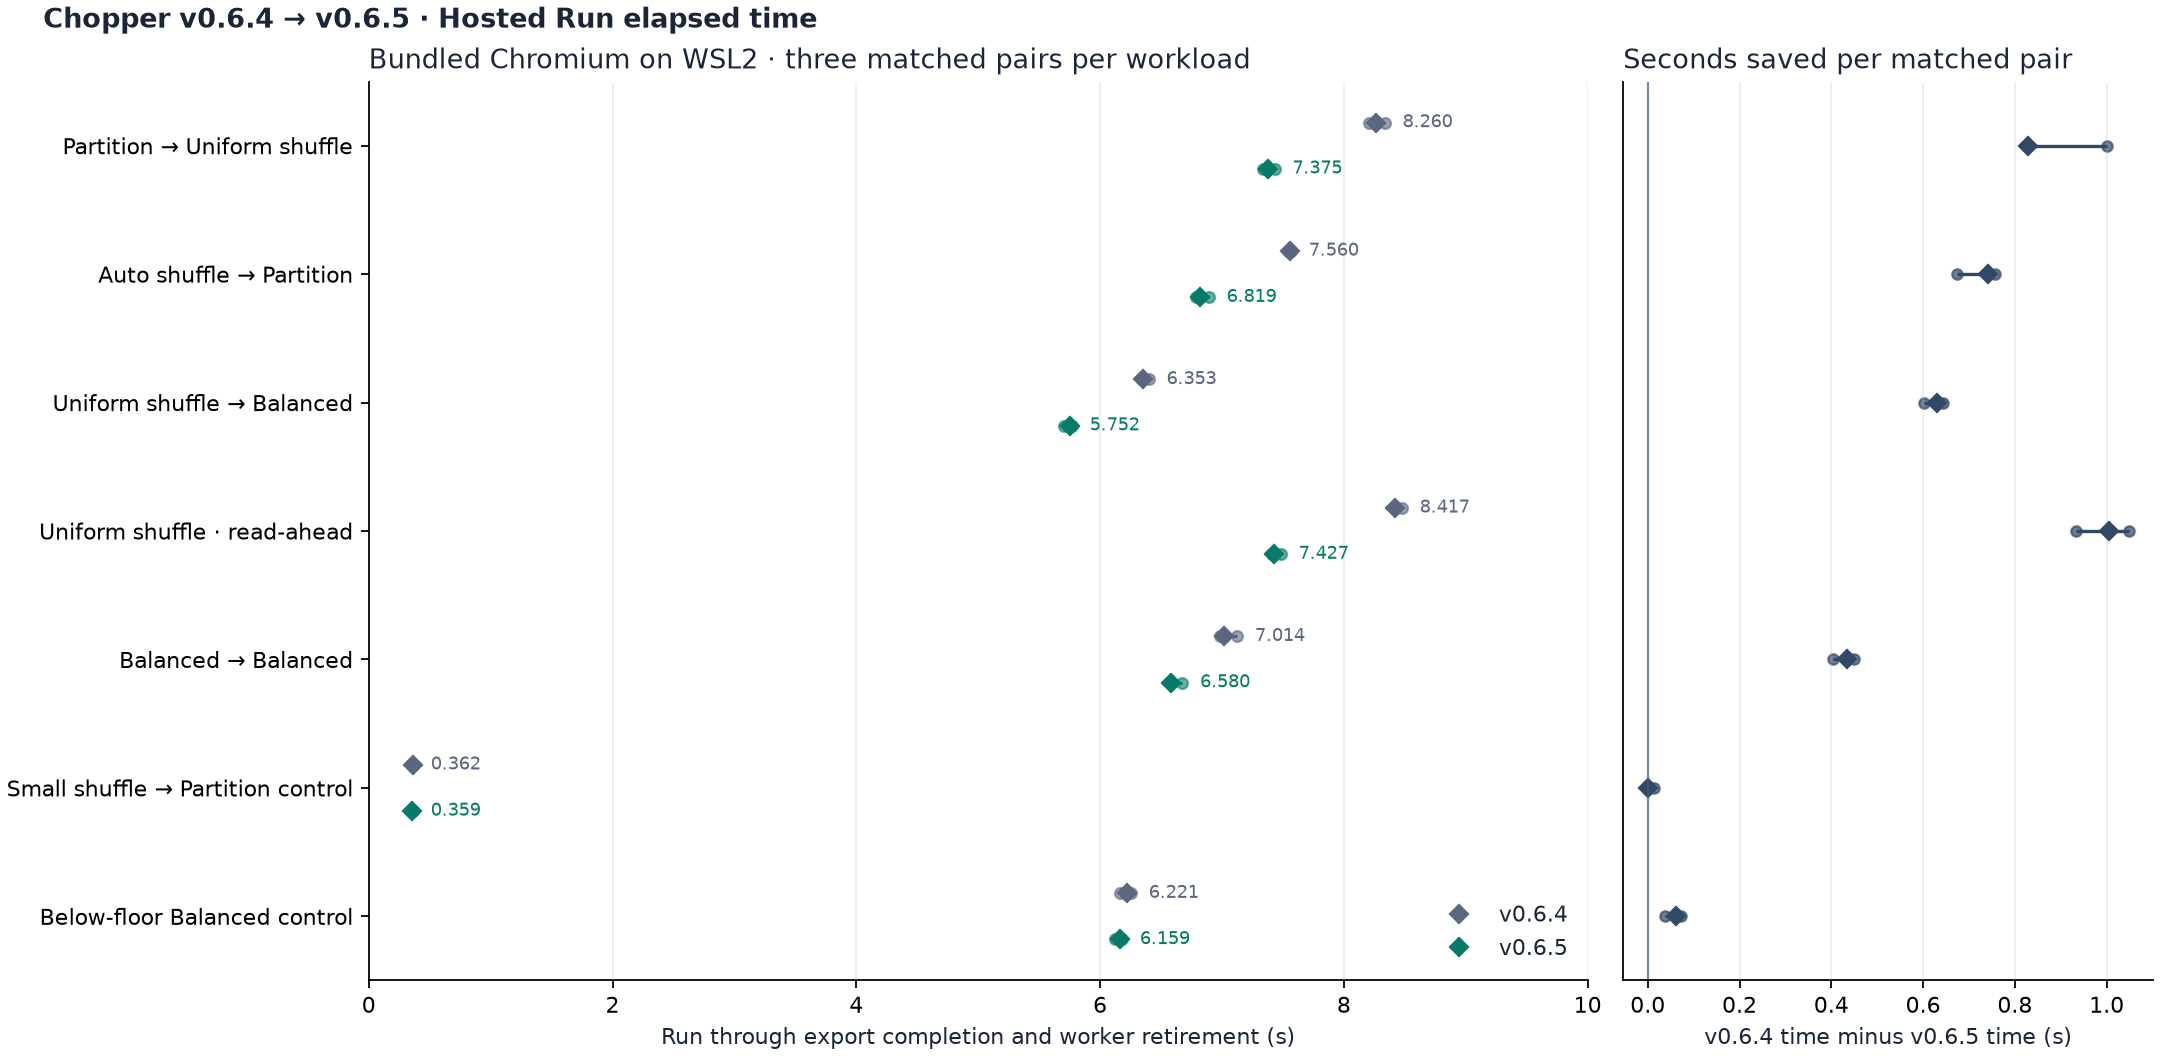
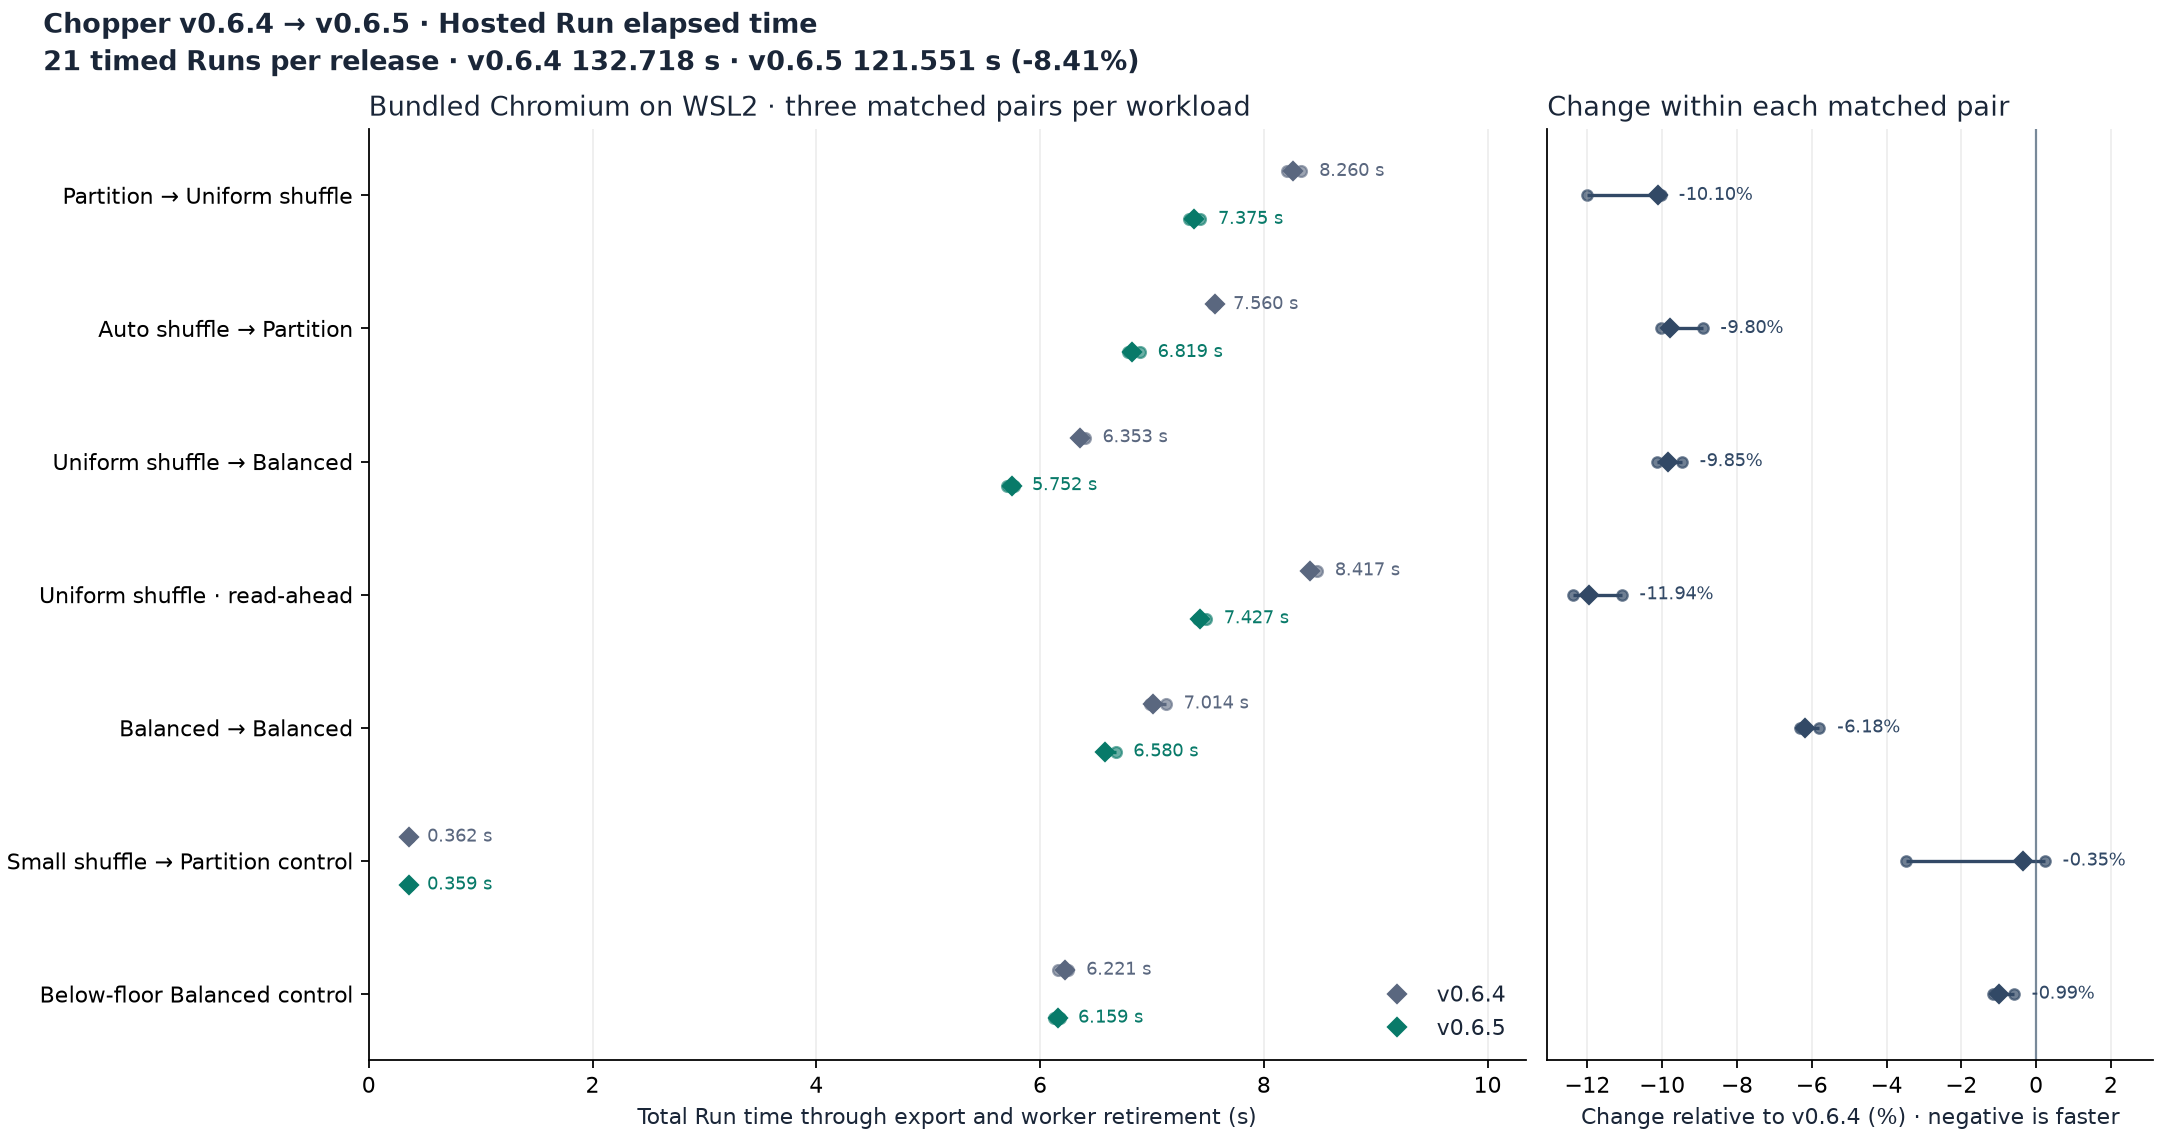
Show elapsed totals and percent changes in performance release charts

diff --git a/docs/releases/0.6.5.md b/docs/releases/0.6.5.md
@@ -7,7 +7,7 @@ consecutive Balanced operations.
 
 ## Performance compared with v0.6.4
 
-![Individual elapsed times, medians and differences for matched v0.6.4 and v0.6.5 hosted Runs across seven workloads](0.6.5-performance-elapsed.png)
+![Total and individual elapsed times for v0.6.4 and v0.6.5, with medians and paired percentage changes across seven workloads](0.6.5-performance-elapsed.png)
 
 ![Median temporary reads, writes, peak storage and working reservations for both versions](0.6.5-performance-resources.png)
 
@@ -16,18 +16,22 @@ the v0.6.5 hosted assets. Each workload ran with one worker in a persistent
 bundled Chromium profile on WSL2, with three alternating pairs after warmup.
 The timer runs from the Run request through export and worker retirement.
 Every exported row and the completion marker were checked after timing.
-Circles show individual observations and diamonds show medians.
+Circles show individual observations and diamonds show medians. Percentage
+changes use v0.6.4 as the baseline. Negative values indicate faster Runs.
 [Samples, fixture settings and hashes](../benchmarks/0.6.5-performance-data.json).
 
-| Hosted workload | Input | Median Run, v0.6.4 → v0.6.5 | Seconds saved per pair |
-| --- | ---: | ---: | ---: |
-| Partition → Uniform shuffle | 292.1 MB | 8.260 → 7.375 s | +0.828 to +1.001 |
-| Auto shuffle → Partition | 267.4 MB | 7.560 → 6.819 s | +0.675 to +0.757 |
-| Uniform shuffle → Balanced | 234.2 MB | 6.353 → 5.752 s | +0.602 to +0.644 |
-| Uniform shuffle · read-ahead | 308.4 MB | 8.417 → 7.427 s | +0.933 to +1.049 |
-| Balanced → Balanced | 275.0 MB | 7.014 → 6.580 s | +0.405 to +0.450 |
-| Small shuffle → Partition control | 8.5 MB | 0.362 → 0.359 s | -0.001 to +0.013 |
-| Below-floor Balanced control | 241.2 MB | 6.221 → 6.159 s | +0.037 to +0.073 |
+Across the 21 timed Runs per release, total elapsed time was 132.718 s for
+v0.6.4 and 121.551 s for v0.6.5 (-8.41%). These totals exclude warmups.
+
+| Hosted workload | Input | v0.6.4 median | v0.6.5 median | Median paired change (range) |
+| --- | ---: | ---: | ---: | ---: |
+| Partition → Uniform shuffle | 292.1 MB | 8.260 s | 7.375 s | -10.10% (-12.01% to -10.03%) |
+| Auto shuffle → Partition | 267.4 MB | 7.560 s | 6.819 s | -9.80% (-10.04% to -8.92%) |
+| Uniform shuffle → Balanced | 234.2 MB | 6.353 s | 5.752 s | -9.85% (-10.14% to -9.47%) |
+| Uniform shuffle · read-ahead | 308.4 MB | 8.417 s | 7.427 s | -11.94% (-12.38% to -11.08%) |
+| Balanced → Balanced | 275.0 MB | 7.014 s | 6.580 s | -6.18% (-6.31% to -5.79%) |
+| Small shuffle → Partition control | 8.5 MB | 0.362 s | 0.359 s | -0.35% (-3.49% to +0.23%) |
+| Below-floor Balanced control | 241.2 MB | 6.221 s | 6.159 s | -0.99% (-1.16% to -0.60%) |
 
 The direct writer saved about 292.1 MB, 267.7 MB, and
 234.2 MB of logical temporary reads on the three two-step shuffle

diff --git a/.agents/skills/chopper-benchmarks/SKILL.md b/.agents/skills/chopper-benchmarks/SKILL.md
@@ -1,6 +1,6 @@
 ---
 name: chopper-benchmarks
-description: Analyze Chopper benchmark evidence, design or run targeted performance experiments, and record results with provenance and replay constraints. Use for Chopper performance comparisons and benchmark decision tables; not for unrelated benchmarking or general feature development.
+description: Analyze Chopper benchmark evidence, design targeted experiments, and qualify performance release charts. Use for Chopper performance comparisons, benchmark decision tables, and performance release notes.
 ---
 
 # Chopper benchmarks
@@ -50,6 +50,10 @@ Validate conservation, group membership, logical metadata, strict caps and failu
 Compare absolute Run seconds saved on larger jobs through verified publication and cleanup. Measure small-job cost and use the observed spread when comparing close timings or preferring greater resource headroom. For situational gains, declare the signal Auto can obtain cheaply, its incremental cost, the expected winning region and where Auto should decline. Challenge the selector on held-out workloads and check admission while owners actually overlap. Promote after the benefit, eligibility and contracts hold for the intended workload/runtime and the user has authorized delivery.
 
 ## Record the outcome
+
+For performance release notes, apply the [release chart requirements](../../../docs/release-packaging.md#performance-graphs-in-release-notes).
+Check the displayed baseline and candidate times and percentage changes against
+the matched samples before publishing the changelog and downloadable charts.
 
 For requested repository updates, preserve raw artifacts and add new passes without overwriting historical evidence. Put interpretation, controls, exclusions and reproduction details in a new dated investigation under `docs/performance/investigations/`, registered using `docs/performance/README.md`. Preserve migrated prose and stable source hashes; record corrections in a new investigation. Keep future work and acceptance criteria in the owning GitHub issue; do not create a competing checklist. Analysis-only requests do not require rewriting documentation.
 

diff --git a/docs/release-packaging.md b/docs/release-packaging.md
@@ -213,8 +213,18 @@ Use the immediately prior published release as the baseline and the new
 release artifacts as the comparison. Verify that the comparison uses the
 same asset bytes as the published release. Run matched workloads, verify the
 outputs, and record both artifact identities, runtime, fixtures, resource
-settings, and measurement boundary. Show individual elapsed-time samples and
-medians or ranges. Include relevant controls, regressions, and resource graphs
-for effects such as temporary reads, writes, peak storage, and working
-reservations. Link the underlying observations and provide a text summary
-alongside the graphs.
+settings, and measurement boundary.
+
+For each matched workload, show the baseline and candidate total Run time in
+seconds on the elapsed-time chart, with the individual samples and medians or
+ranges. Show the percentage change within each pair using
+`100 × (candidate time − baseline time) / baseline time`. Label negative values
+as faster and show the paired median or range. If reporting a total across the
+suite, sum the same timed workload set for each release, exclude warmups, and
+compute the percentage from those totals. The changelog's text or table should
+give both elapsed times and the percentage change as well.
+
+Include relevant controls, regressions, and resource graphs for effects such as
+temporary reads, writes, peak storage, and working reservations. Link the
+underlying observations and verify the chart and changelog values against them
+before publishing.

diff --git a/AGENTS.md b/AGENTS.md
@@ -199,6 +199,10 @@ Rank verified large-job Run time in absolute seconds, value measured resource
 headroom in close comparisons, and validate any situational selector's cheap
 signals and decline path before promotion.
 
+Before publishing a performance release, follow the [release chart requirements](docs/release-packaging.md#performance-graphs-in-release-notes).
+Verify that the changelog shows baseline and candidate Run times and the
+percentage change for each matched workload.
+
 For repeated experiments, follow the [coded experiment cycle](docs/maintainer/experiment-cycle.md)
 for reasoning routing, declared command pipelines and compact evidence handoffs.
 For an authorized end-to-end unattended investigation, use the repository

diff --git a/.agents/skills/chopper-unattended/SKILL.md b/.agents/skills/chopper-unattended/SKILL.md
@@ -109,6 +109,10 @@ if other authorized gaps remain. A CI wait is not objective completion.
 
 ## Finish only at an objective boundary
 
+When an authorized investigation includes a performance release, verify the
+changelog and downloadable charts against the [release chart requirements](../../../docs/release-packaging.md#performance-graphs-in-release-notes)
+as part of publication.
+
 End substantive work when one of these is established:
 
 - **Complete:** the requested end outcome is verified and required changes are
